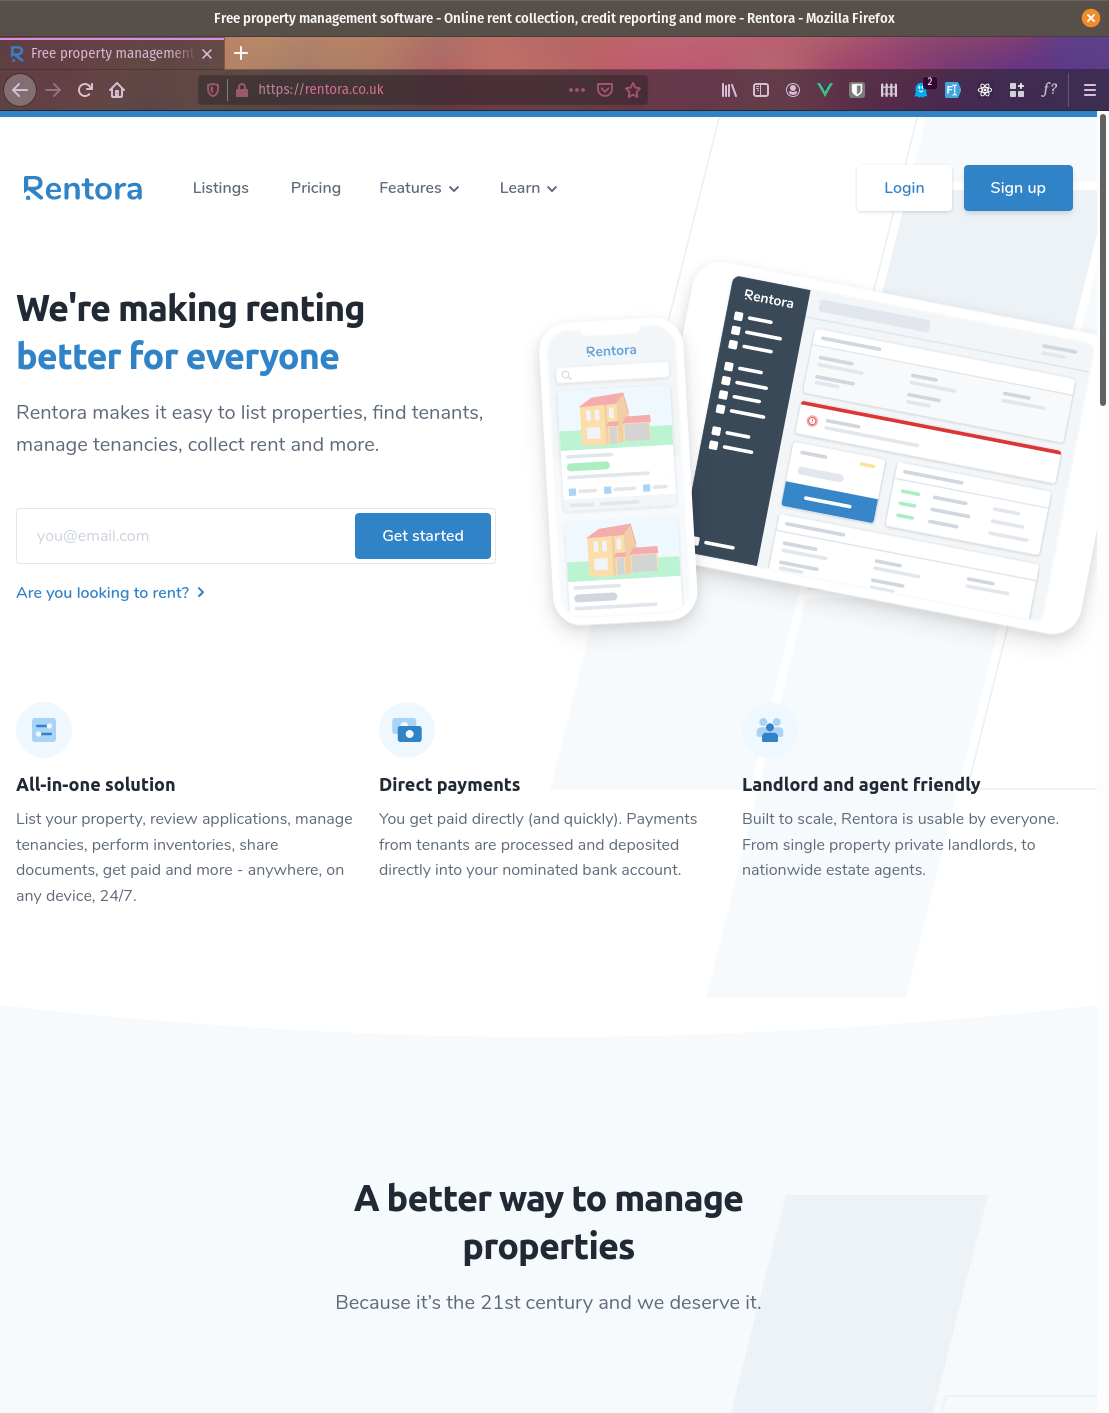
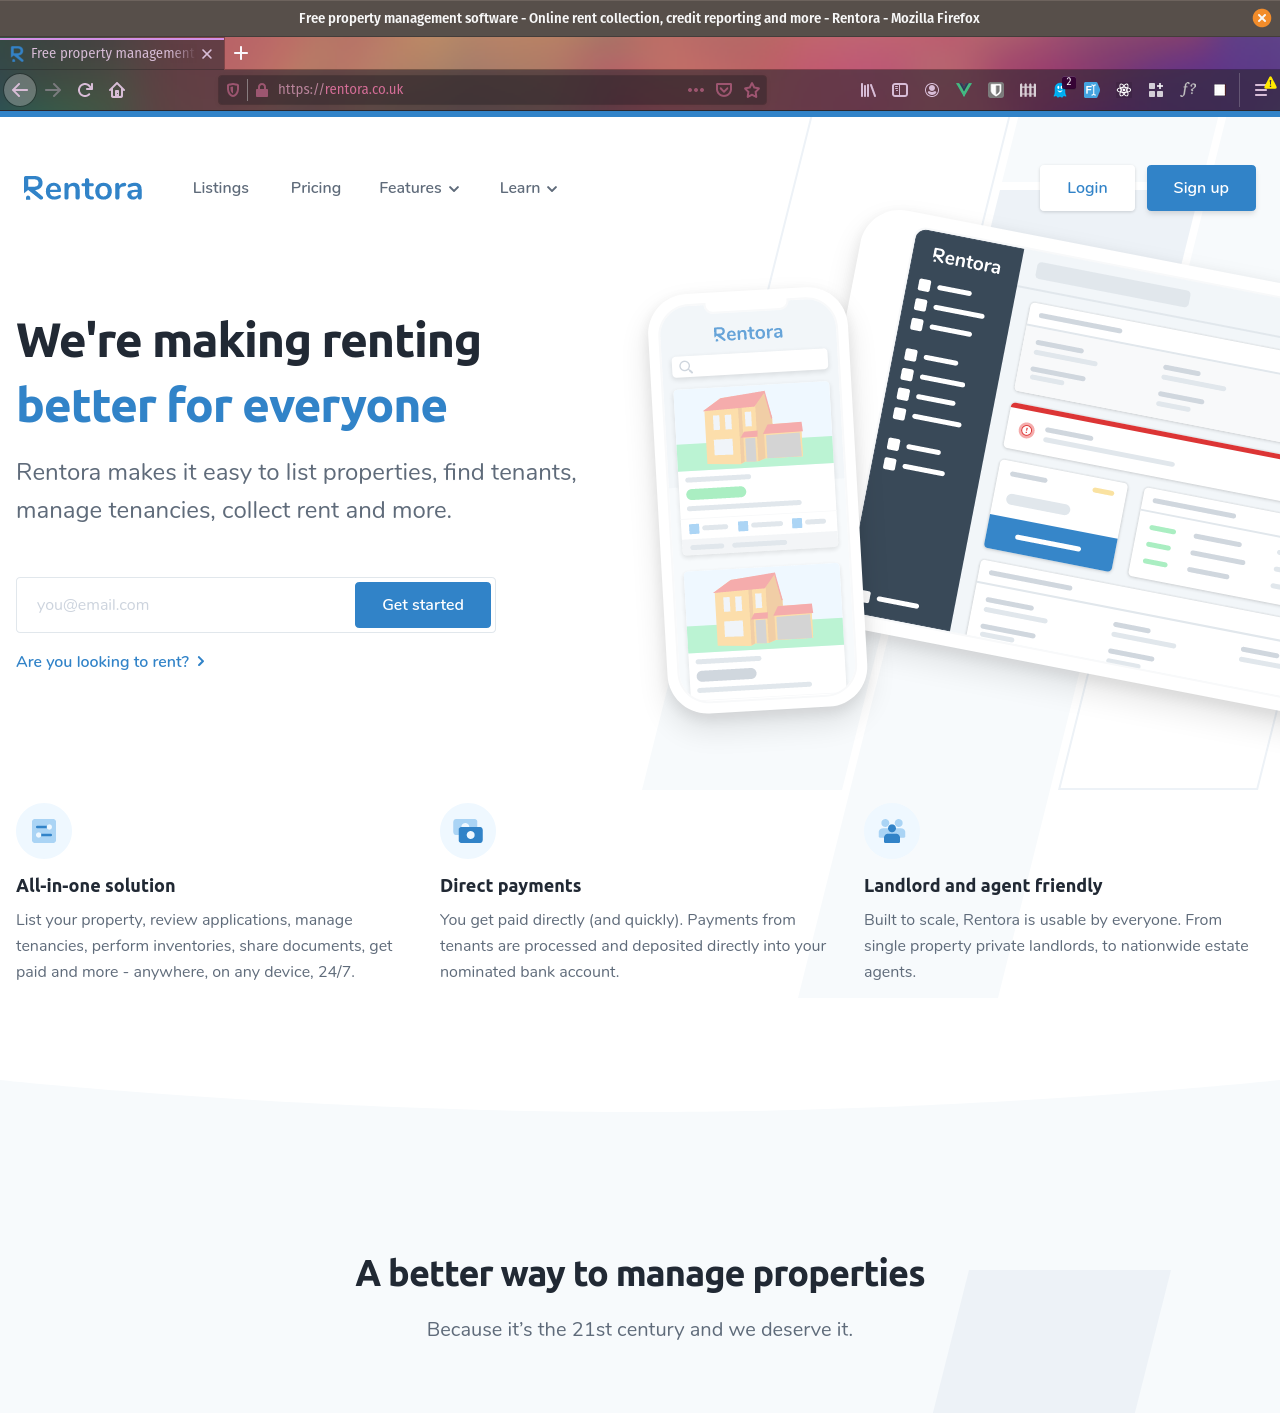
Update browser images and add TMB

diff --git a/src/pages/index.js b/src/pages/index.js
@@ -6,6 +6,8 @@ import SEO from "../components/seo"
 import Img from "gatsby-image"
 import projectRentora1 from "../../static/rentora1.png"
 import projectRentora2 from "../../static/rentora2.png"
+import projectTransferMyBills1 from "../../static/transfermybills.png"
+import projectTransferMyBills2 from "../../static/transfermybills2.png"
 
 class BlogIndex extends React.Component {
   render() {
@@ -116,6 +118,29 @@ class BlogIndex extends React.Component {
                 </a>
               </div>
             </div>
+
+            <div className="w-full px-6">
+              <div className="font-os text-gray-800 pb-3 mb-3 border-b">
+                <div className="font-extrabold text-1xl md:text-1xl tracking-wide mb-2">
+                  TransferMyBills (<a href="https://transfermybills.com/" target="_new">https://transfermybills.com</a>)
+                </div>
+                <p>
+                Relocating can be stressful, but contacting everyone is easy using our free service.  Let <a href="https://transfermybills.com/" target="_new">transfermybills.com</a> notify existing utility, insurance and service providers of your impending move
+                </p>
+              </div>
+              
+              <div className="inline-block pr-1 w-1/2">
+                <a href="https://transfermybills.com/" target="_new">
+                  <img src={projectTransferMyBills1} className="mx-auto" alt="Link to TransferMyBills Homepage" />
+                </a>
+              </div>
+              <div className="inline-block pr-1 w-1/2">
+                <a href="https://transfermybills.com/" target="_new">
+                  <img src={projectTransferMyBills2} className="mx-auto" alt="Link to TransferMyBills Homepage" />
+                </a>
+              </div>
+            </div>
+
 
           </div>
         </div>
